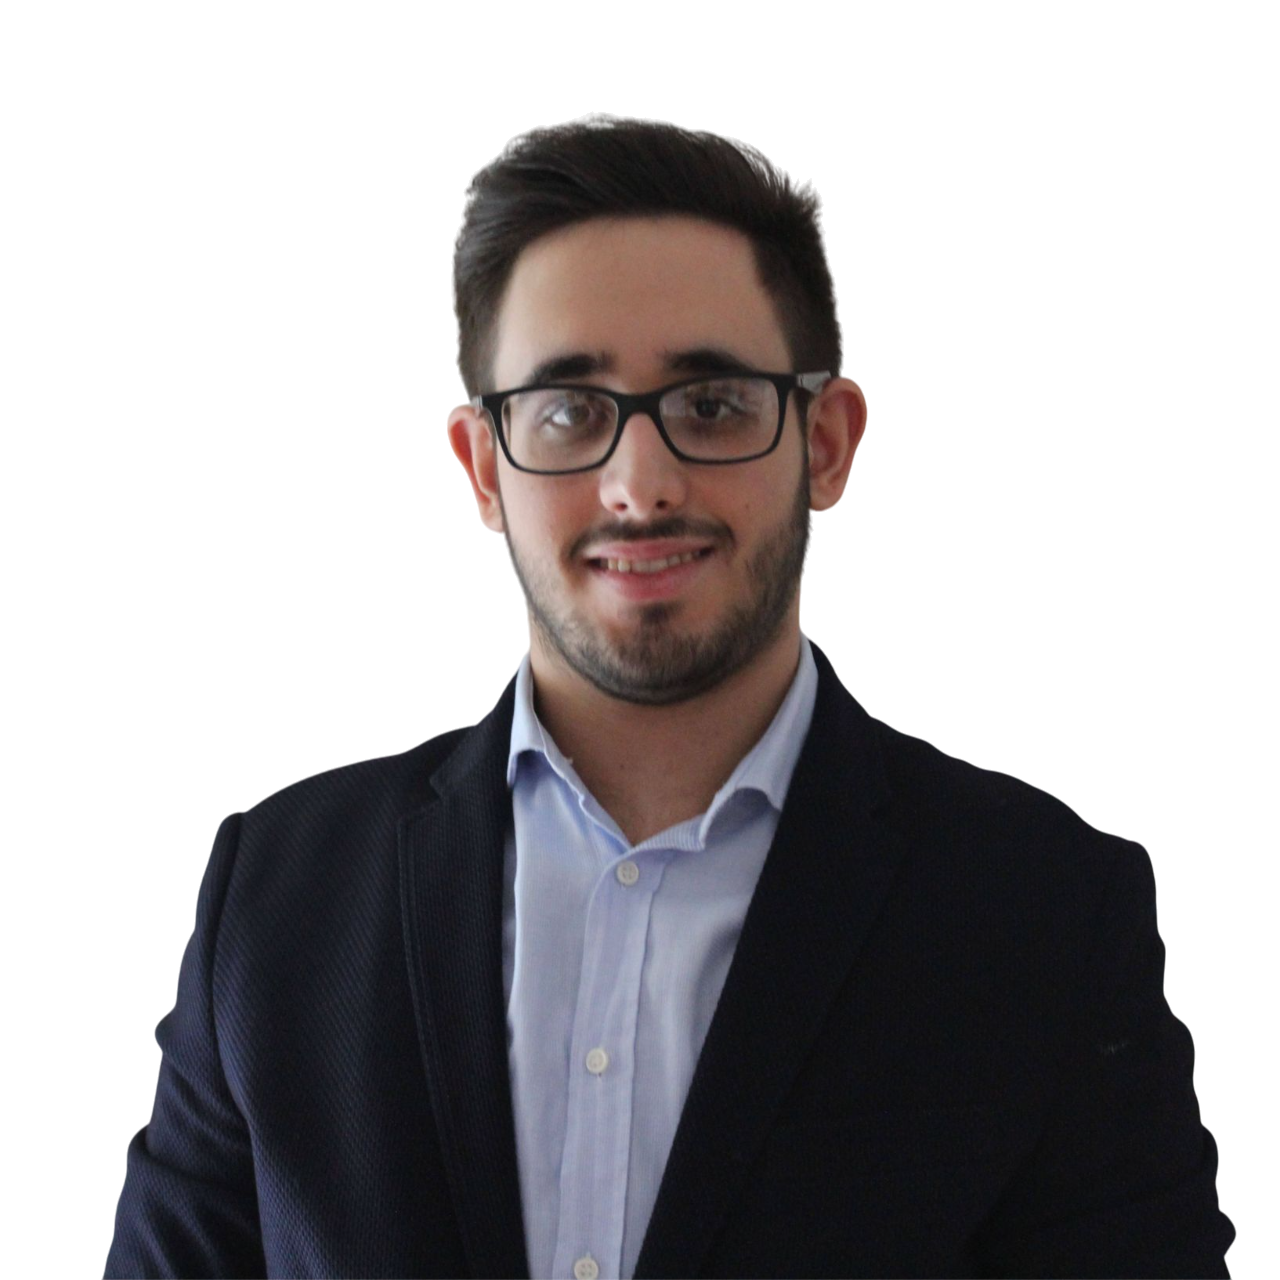
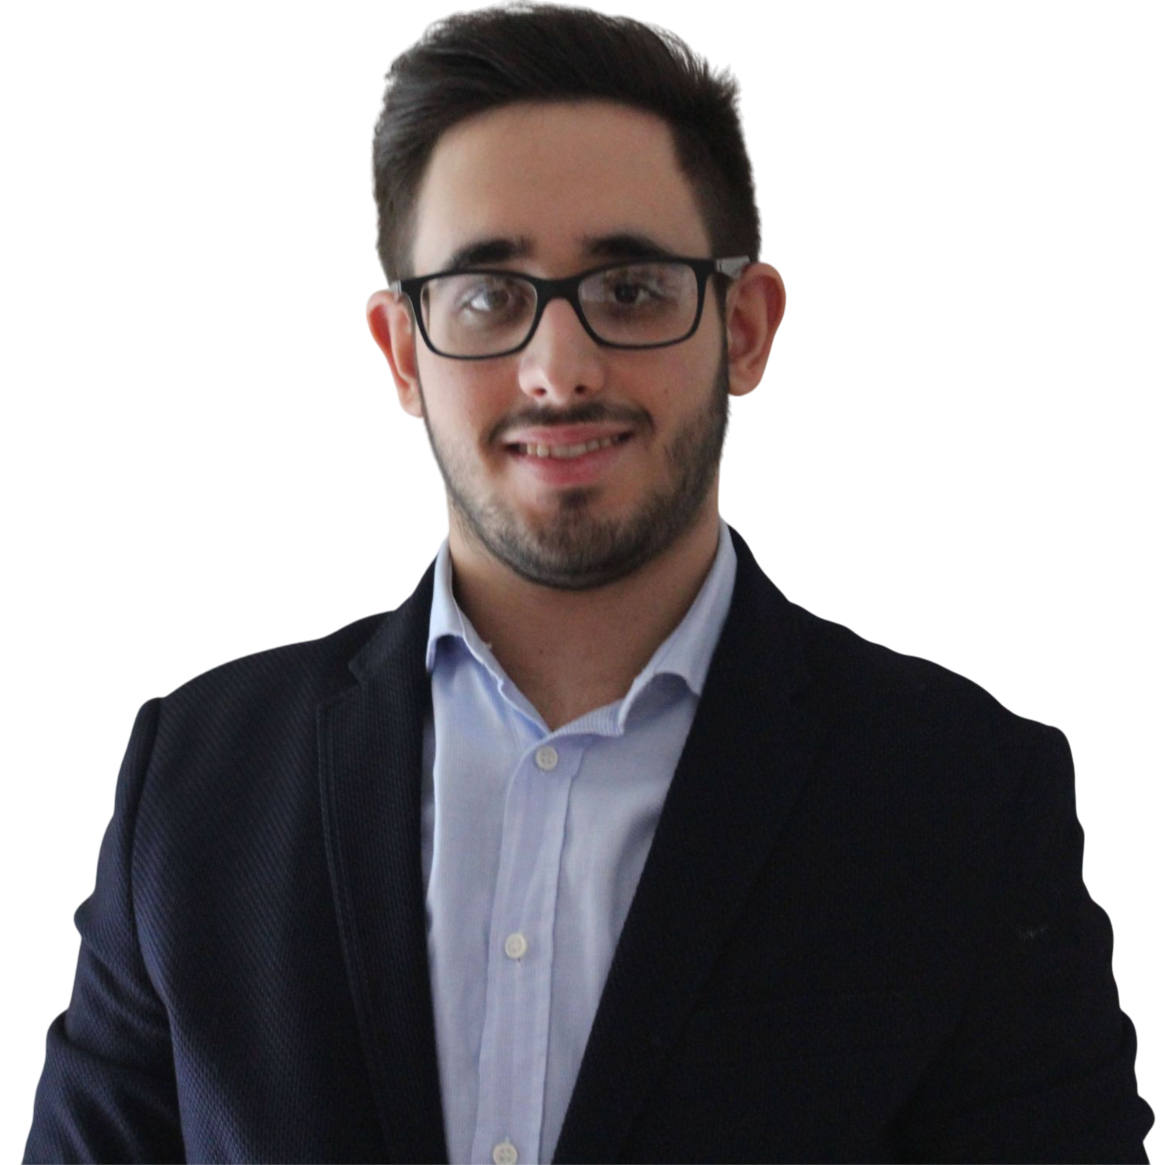
lanagugetoggle with flag + edit profile image +  json education/work

Changed region(s): [[0.0, 0.0, 0.9888, 1.0], [0.2472, 0.8343, 0.2781, 0.8652]]

diff --git a/src/components/languageToggle.tsx b/src/components/languageToggle.tsx
@@ -1,4 +1,4 @@
-import React, { useState } from "react";
+import React, { useState, useRef, useEffect } from "react";
 import { useContext } from "react";
 import { TranslationContext } from "@/components/DataContext";
 import { IoLanguage } from "react-icons/io5";
@@ -8,21 +8,28 @@ export default function LanguageToggle() {
     const language = useContext(TranslationContext)?.language;
     const setLanguage = useContext(TranslationContext)?.setLanguage;
     const [openDropDown, setOpenDropDown] = useState(false);
+    const dropdownRef = useRef<HTMLDivElement>(null);
 
-    /*const toggleLanguage = () => {
-        if (language === "en") {
-            setLanguage?.("it");
-        } else {
-            setLanguage?.("en");
-        }
-    };*/
+    useEffect(() => {
+        const handleClickOutside = (event: MouseEvent) => {
+            if (dropdownRef.current && !dropdownRef.current.contains(event.target as Node)) {
+                setOpenDropDown(false);
+            }
+        };
+
+        document.addEventListener("mousedown", handleClickOutside);
+        return () => {
+            document.removeEventListener("mousedown", handleClickOutside);
+        };
+    }, []);
+
     const toggleLanguage = (lang: string) => {
         setLanguage?.(lang);
         setOpenDropDown(false);
     };
 
     return (
-        <div className="relative w-[80px] flex align-center justify-center">
+        <div ref={dropdownRef} className="relative w-[80px] flex align-center justify-center">
             <div onClick={() => setOpenDropDown((oldValue) => !oldValue)} className={`p-1.5 md:ml-auto ${openDropDown ? 'bg-[#51a2ff]' : 'bg-transparent'} hover:bg-[#51a2ff] rounded-full text-white cursor-pointer`}>
                 <IoLanguage size={isMobile() ? 18 : 24} />
             </div>
@@ -30,10 +37,10 @@ export default function LanguageToggle() {
             <div className={`absolute z-10 mt-10 ${openDropDown ? '' : 'hidden'} bg-[#51a2ff] rounded-lg`}>
                 <ul className="py-2 text-sm" aria-labelledby="dropdownDefaultButton">
                     <li>
-                        <a onClick={() => toggleLanguage('it')} className="block px-4 py-2 bg-[#51a2ff] cursor-pointer">Italian</a>
+                        <img width={70} height={35} src='./italian.png' onClick={() => toggleLanguage('it')} className="block px-4 py-2 bg-[#51a2ff] cursor-pointer"/>
                     </li>
                     <li>
-                        <a onClick={() => toggleLanguage('en')} className="block px-4 py-2 bg-[#51a2ff] cursor-pointer">English</a>
+                        <img width={70} height={35} src='./english.png' onClick={() => toggleLanguage('en')} className="block px-4 py-2 bg-[#51a2ff] cursor-pointer"/>
                     </li>
                 </ul>
             </div>

diff --git a/src/app/globals.css b/src/app/globals.css
@@ -1,10 +1,5 @@
 @import "tailwindcss";
 
-:root {
-  --background: #ffffff;
-  --foreground: #171717;
-}
-
 @theme inline {
   --color-background: var(--background);
   --color-foreground: var(--foreground);
@@ -12,12 +7,44 @@
   --font-mono: var(--font-geist-mono);
 }
 
+/* ---------------- LIGHT THEME ---------------- */
+
+:root {
+  /* Define actual theme values as design tokens */
+  --light-background: #ffffff;
+  --light-foreground: #171717;
+  --light-secondary-background: #201c74;
+
+  --dark-background: #0A0A72;
+  --dark-foreground: #ededed;
+  --dark-secondary-background: #201c74;
+
+  /* Default to light theme (used when no system or user override) */
+  --background: var(--light-background);
+  --foreground: var(--light-foreground);
+  --secondary-background: var(--light-secondary-background);
+}
+
+/* If system prefers dark theme */
 @media (prefers-color-scheme: dark) {
   :root {
-    --background: #0A0A72;
-    --secondary-background: #201c74;
-    --foreground: #ededed;
+    --background: var(--dark-background);
+    --foreground: var(--dark-foreground);
+    --secondary-background: var(--dark-secondary-background);
   }
+}
+
+/* If user explicitly sets theme */
+[data-theme='dark'] {
+  --background: var(--dark-background);
+  --foreground: var(--dark-foreground);
+  --secondary-background: var(--dark-secondary-background);
+}
+
+[data-theme='light'] {
+  --background: var(--light-background);
+  --foreground: var(--light-foreground);
+  --secondary-background: var(--light-secondary-background);
 }
 
 body {

diff --git a/src/sections/home.tsx b/src/sections/home.tsx
@@ -16,8 +16,8 @@ export default function Home() {
     if (!translations) return null; // Handle case when translations are not yet loaded
     
     return (
-        <section id={translations.sections[0]} className="text-white min-h-screen flex items-center justify-center">
-            <div className="container max-w-8xl mx-auto px-6 flex flex-col-reverse lg:flex-row items-center">
+        <section id={translations.sections[0]} className="text-white h-screen">
+            <div className="container lg:h-full max-w-8xl mx-auto px-6 flex flex-col-reverse lg:flex-row items-center justify-center">
                 {/* Social Icons */}
                 <div className="md:flex hidden lg:flex-col flex-row gap-4 lg:absolute right-6 top-1/2 transform -translate-y-1/2 mt-15">
                     <IconUtility Icon={FaLinkedin} link={'https://www.linkedin.com/in/domenico-gagliardo-3256ba229/'} />
@@ -54,7 +54,7 @@ export default function Home() {
                     <Image 
                         src="./profile-img.png"
                         alt={translations.name} 
-                        className="bg-blue-400 rounded-full h-auto max-h-[400px] md:max-h-[500px] xl:max-h-[580px] w-auto shadow-lg"
+                        className="bg-transparent h-auto max-h-[480px] md:max-h-[580px] xl:max-h-[660px] w-auto"
                         width={500}
                         height={500}
                     />

diff --git a/src/sections/projects.tsx b/src/sections/projects.tsx
@@ -1,4 +1,4 @@
-import { useContext, useState } from "react";
+import { useContext, useEffect, useState } from "react";
 import { TranslationContext } from "@/components/DataContext";
 import ProjectsTabs from "@/components/projectTabs";
 import ProjectCard from "@/components/projectCard";
@@ -10,10 +10,13 @@ export default function Projects() {
     const [activeTab, setActiveTab] = useState(""); // Default to an empty string
     const [open, setOpen] = useState(false); // State to control project modal visibility
     const [project, setProject] = useState<Project | null>(null); // State to hold the selected project
-
-    if (translations && !activeTab) {
-        setActiveTab(translations.categories[0]);
-    }
+    // Set the active tab to the first category when translations are loaded and for each language change
+    useEffect(() => {
+        if (translations) {
+            setActiveTab(translations.categories[0]);
+        }
+    }, [translations]);
+    
     if (!translations) return null; // Handle case when translations are not yet loaded
 
     function filterByTabCategory() : Project[] {

diff --git a/src/components/navbar.tsx b/src/components/navbar.tsx
@@ -150,7 +150,6 @@ export default function NavBar(props: any) {
       <DisclosurePanel className="md:hidden">
         <div className="flex flex-col items-center space-y-1 px-2 pt-2 pb-3 h-[75vh]">
           <Image
-            className="bg-blue-400  rounded-full"
             src="./profile-img.png"
             alt="Profile Image"
             width={180}
